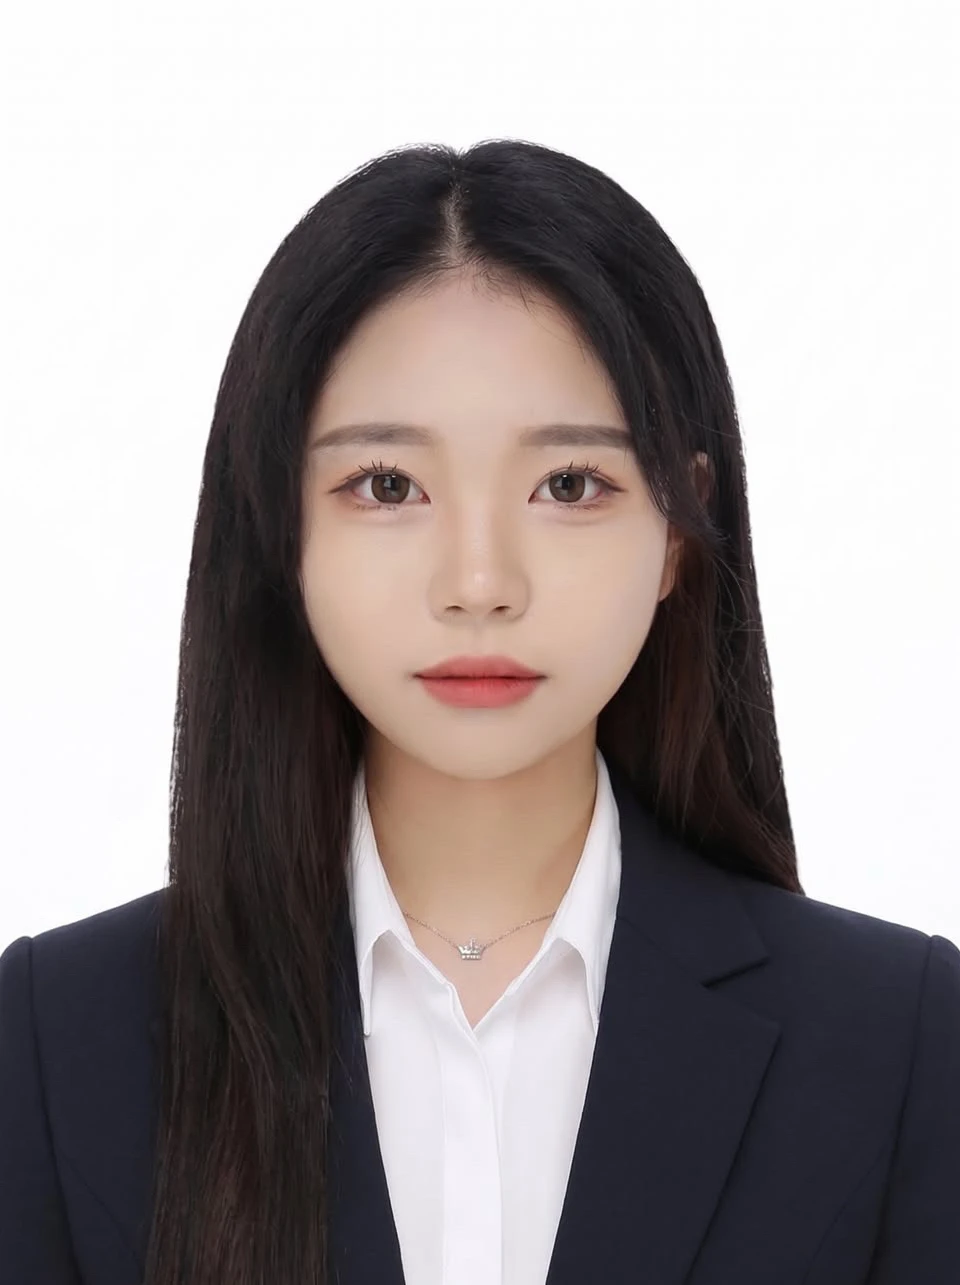
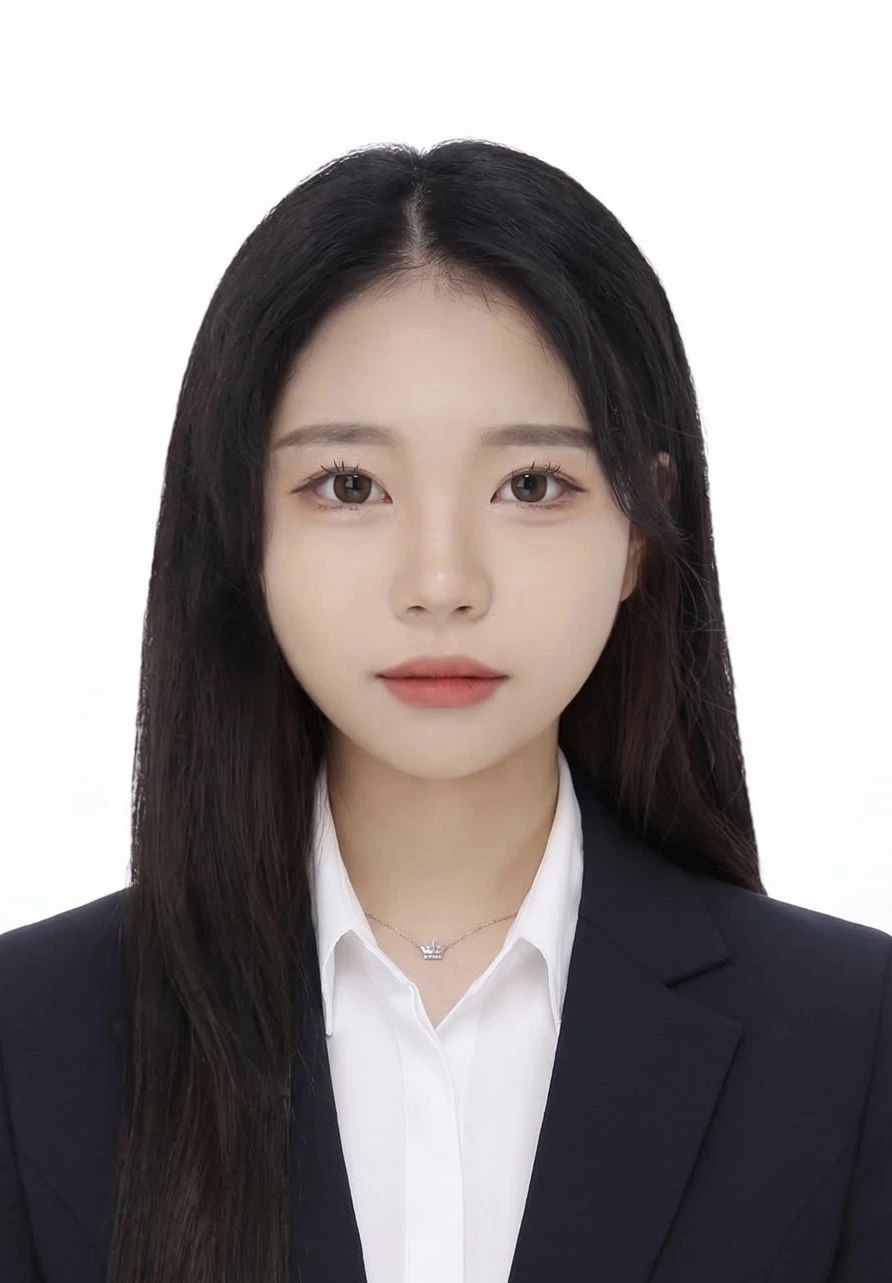
내용 채우기: 이름·연락처·학력·어학·언어, 프로필 사진 교체
- 1페이지: 인사말 '안녕하세요. 기술과 비즈니스를 연결하는 천세령입니다.'
  PORTFOLIO 글자 굵기 300 → 500, 전공은 '컴퓨터공학과'만 표기
- 이메일·GitHub 링크 (1페이지, 마지막 페이지)
- 자기소개: 이름 천세령, 이화여자대학교 컴퓨터공학과 재학,
  TOEFL 80점 (2025.09.28), 어학연수 캐나다 6개월, 자격증은 비워 둠
- 스킬: 언어 SQL, Python, Java, C (설명은 작성 필요)
- 프로필 사진 교체 (892×1283)

Claude-Session: https://claude.ai/code/session_01CPMB5RBGDjcvr2gRGhn2Nj

diff --git a/index.html b/index.html
@@ -3,12 +3,11 @@
 <head>
   <meta charset="UTF-8">
   <meta name="viewport" content="width=device-width, initial-scale=1">
-  <!-- 이름을 채운 뒤 예: "홍길동 | 데이터 운영·분석 포트폴리오" -->
-  <title>데이터 운영·분석 포트폴리오</title>
-  <meta name="description" content="컴퓨터공학과 3학년, 데이터 운영·분석 직무 포트폴리오">
+  <title>천세령 | 데이터 운영·분석 포트폴리오</title>
+  <meta name="description" content="이화여자대학교 컴퓨터공학과 천세령의 데이터 운영·분석 직무 포트폴리오">
   <!-- 카카오톡·슬랙 등에 링크를 붙였을 때 보이는 미리보기 문구 -->
-  <meta property="og:title" content="데이터 운영·분석 포트폴리오">
-  <meta property="og:description" content="컴퓨터공학과 3학년, 데이터 운영·분석 직무 포트폴리오">
+  <meta property="og:title" content="천세령 | 데이터 운영·분석 포트폴리오">
+  <meta property="og:description" content="이화여자대학교 컴퓨터공학과 천세령의 데이터 운영·분석 직무 포트폴리오">
   <!-- 파비콘 요청을 막아 불필요한 404를 없앰 -->
   <link rel="icon" href="data:,">
   <!-- 글꼴: Pretendard (불러오지 못하면 Noto Sans KR) -->
@@ -51,9 +50,8 @@
       <!-- 아래: 베이지 영역의 인사말 -->
       <div class="container cover-bottom">
         <div class="cover-text">
-          <p class="eyebrow">컴퓨터공학과 3학년 · 데이터 운영·분석 직무 지원</p>
-          <!-- 이름 -->
-          <h1 class="cover-title" id="hero-title">안녕하세요. <span class="todo">[작성 필요]</span>입니다.</h1>
+          <p class="eyebrow">컴퓨터공학과 · 데이터 운영·분석 직무 지원</p>
+          <h1 class="cover-title" id="hero-title">안녕하세요. 기술과 비즈니스를 연결하는 천세령입니다.</h1>
           <!-- 한 줄 소개. 예: 데이터를 정제하고, 결과를 숫자로 검증하는 개발자 -->
           <p class="cover-intro"><span class="todo">[작성 필요]</span></p>
           <div class="cta-row">
@@ -83,17 +81,15 @@
         <dl class="info-boxes">
           <div>
             <dt>E-MAIL.</dt>
-            <!-- 예: <a href="mailto:me@example.com">me@example.com</a> -->
-            <dd><span class="todo">[작성 필요]</span></dd>
+            <dd><a href="mailto:seryung011400@gmail.com">seryung011400@gmail.com</a></dd>
           </div>
           <div>
             <dt>GITHUB.</dt>
-            <!-- 예: <a href="https://github.com/아이디">github.com/아이디</a> -->
-            <dd><span class="todo">[작성 필요]</span></dd>
+            <dd><a href="https://github.com/seryung0114">github.com/seryung0114</a></dd>
           </div>
           <div>
             <dt>MAJOR.</dt>
-            <dd>컴퓨터공학과 3학년</dd>
+            <dd>컴퓨터공학과</dd>
           </div>
         </dl>
       </div>
@@ -162,11 +158,11 @@
               <dl class="kv">
                 <div>
                   <dt>NAME</dt>
-                  <dd><span class="todo">[작성 필요]</span></dd>
+                  <dd>천세령</dd>
                 </div>
                 <div>
                   <dt>MAJOR</dt>
-                  <dd>컴퓨터공학과 3학년</dd>
+                  <dd>컴퓨터공학과</dd>
                 </div>
                 <div>
                   <dt>POSITION</dt>
@@ -179,10 +175,9 @@
               <h3 class="block-title">학력</h3>
               <dl class="kv">
                 <div>
-                  <!-- 예: 2024.03 – -->
+                  <!-- 입학 연월. 예: 2024.03 – -->
                   <dt><span class="todo">[작성 필요]</span></dt>
-                  <!-- 학교 이름 -->
-                  <dd><span class="todo">[작성 필요]</span> 컴퓨터공학과 재학</dd>
+                  <dd>이화여자대학교 컴퓨터공학과 재학</dd>
                 </div>
               </dl>
             </div>
@@ -190,10 +185,15 @@
             <div class="info-block">
               <h3 class="block-title">자격증</h3>
               <dl class="kv">
+                <!-- 아직 없음. 취득하면 아래처럼 추가:
                 <div>
-                  <!-- 취득 연월. 예: 2026.06 -->
-                  <dt><span class="todo">[작성 필요]</span></dt>
+                  <dt>2026.06</dt>
                   <dd>SQLD (SQL 개발자)</dd>
+                </div>
+                -->
+                <div>
+                  <dt><span class="todo">[작성 필요]</span></dt>
+                  <dd></dd>
                 </div>
               </dl>
             </div>
@@ -202,15 +202,13 @@
               <h3 class="block-title">어학</h3>
               <dl class="kv">
                 <div>
-                  <dt><span class="todo">[작성 필요]</span></dt>
-                  <!-- 예: OPIc 영어 IH -->
-                  <dd>OPIc <span class="todo">[작성 필요]</span></dd>
+                  <dt>2025.09.28</dt>
+                  <dd>TOEFL 80점</dd>
                 </div>
                 <div>
-                  <!-- 예: 2024.09 – 2025.02 -->
+                  <!-- 연수 기간. 예: 2024.09 – 2025.02 -->
                   <dt><span class="todo">[작성 필요]</span></dt>
-                  <!-- 지역. 예: 캐나다 밴쿠버 -->
-                  <dd>어학연수 6개월 · <span class="todo">[작성 필요]</span></dd>
+                  <dd>어학연수 · 캐나다 6개월</dd>
                 </div>
               </dl>
             </div>
@@ -218,7 +216,7 @@
         </div>
 
         <!-- 프로필 사진 (원본 컬러) -->
-        <img class="intro-photo" src="assets/images/profile.webp" alt="프로필 사진" width="960" height="1285">
+        <img class="intro-photo" src="assets/images/profile.webp" alt="천세령 프로필 사진" width="892" height="1283">
       </div>
     </section>
 
@@ -235,38 +233,42 @@
       </header>
 
       <div class="container section-body">
-        <!-- 행 하나 = 기술 하나. 별점·막대 대신 실제로 해 본 것 -->
+        <h3 class="sub-title sub-title-first">언어</h3>
+        <!-- 행 하나 = 언어 하나. 별점·막대 대신 실제로 해 본 것 -->
         <dl class="skill-table">
           <div>
-            <!-- 예: SQL -->
-            <dt><span class="todo">[작성 필요]</span></dt>
+            <dt>SQL</dt>
             <dd>
-              <!-- 예: JOIN·GROUP BY로 월별 집계 쿼리 작성, 서브쿼리로 중복 주문 탐지 -->
+              <!-- 예: JOIN·GROUP BY로 집계 쿼리 작성, 서브쿼리로 중복 데이터 탐지 -->
               <p><span class="todo">[작성 필요]</span></p>
-              <!-- 예: <a href="projects/project-1.html">프로젝트 1</a> -->
+              <!-- 예: <a href="projects/project-1.html">프로젝트 1</a>, 수업 이름 -->
               <p class="muted-sm">사용한 곳 <span class="todo">[작성 필요]</span></p>
             </dd>
           </div>
           <div>
-            <!-- 예: Python -->
-            <dt><span class="todo">[작성 필요]</span></dt>
+            <dt>Python</dt>
             <dd>
               <!-- 예: pandas로 결측치·중복 정제, matplotlib로 전후 비교 그래프 -->
               <p><span class="todo">[작성 필요]</span></p>
+              <!-- 예: <a href="projects/project-1.html">프로젝트 1</a>, 수업 이름 -->
               <p class="muted-sm">사용한 곳 <span class="todo">[작성 필요]</span></p>
             </dd>
           </div>
           <div>
-            <dt><span class="todo">[작성 필요]</span></dt>
+            <dt>Java</dt>
             <dd>
+              <!-- 예: 객체지향 수업 과제로 ○○ 프로그램 구현 -->
               <p><span class="todo">[작성 필요]</span></p>
+              <!-- 예: <a href="projects/project-1.html">프로젝트 1</a>, 수업 이름 -->
               <p class="muted-sm">사용한 곳 <span class="todo">[작성 필요]</span></p>
             </dd>
           </div>
           <div>
-            <dt><span class="todo">[작성 필요]</span></dt>
+            <dt>C</dt>
             <dd>
+              <!-- 예: 자료구조 수업에서 연결 리스트·정렬 알고리즘 구현 -->
               <p><span class="todo">[작성 필요]</span></p>
+              <!-- 예: <a href="projects/project-1.html">프로젝트 1</a>, 수업 이름 -->
               <p class="muted-sm">사용한 곳 <span class="todo">[작성 필요]</span></p>
             </dd>
           </div>
@@ -393,11 +395,11 @@
         <dl class="info-boxes">
           <div>
             <dt>E-MAIL.</dt>
-            <dd><span class="todo">[작성 필요]</span></dd>
+            <dd><a href="mailto:seryung011400@gmail.com">seryung011400@gmail.com</a></dd>
           </div>
           <div>
             <dt>GITHUB.</dt>
-            <dd><span class="todo">[작성 필요]</span></dd>
+            <dd><a href="https://github.com/seryung0114">github.com/seryung0114</a></dd>
           </div>
           <div>
             <dt>RESUME.</dt>

diff --git a/projects/project-1.html b/projects/project-1.html
@@ -3,8 +3,8 @@
 <head>
   <meta charset="UTF-8">
   <meta name="viewport" content="width=device-width, initial-scale=1">
-  <!-- 제목을 채운 뒤 예: "주문 데이터 정제 자동화 | 데이터 운영·분석 포트폴리오" -->
-  <title>프로젝트 1 | 데이터 운영·분석 포트폴리오</title>
+  <!-- 프로젝트 제목을 채운 뒤 예: "주문 데이터 정제 자동화 | 천세령 포트폴리오" -->
+  <title>프로젝트 1 | 천세령 포트폴리오</title>
   <meta name="description" content="프로젝트 1 상세: 문제 정의, 데이터와 방법, 결과, 해결 과정">
   <link rel="icon" href="data:,">
   <link rel="stylesheet" crossorigin href="https://cdn.jsdelivr.net/gh/orioncactus/pretendard@v1.3.9/dist/web/variable/pretendardvariable-dynamic-subset.min.css">

diff --git a/projects/project-2.html b/projects/project-2.html
@@ -3,8 +3,8 @@
 <head>
   <meta charset="UTF-8">
   <meta name="viewport" content="width=device-width, initial-scale=1">
-  <!-- 제목을 채운 뒤 예: "주문 데이터 정제 자동화 | 데이터 운영·분석 포트폴리오" -->
-  <title>프로젝트 2 | 데이터 운영·분석 포트폴리오</title>
+  <!-- 프로젝트 제목을 채운 뒤 예: "주문 데이터 정제 자동화 | 천세령 포트폴리오" -->
+  <title>프로젝트 2 | 천세령 포트폴리오</title>
   <meta name="description" content="프로젝트 2 상세: 문제 정의, 데이터와 방법, 결과, 해결 과정">
   <link rel="icon" href="data:,">
   <link rel="stylesheet" crossorigin href="https://cdn.jsdelivr.net/gh/orioncactus/pretendard@v1.3.9/dist/web/variable/pretendardvariable-dynamic-subset.min.css">

diff --git a/css/style.css b/css/style.css
@@ -274,10 +274,10 @@ a {
   background: var(--paper);
 }
 
-/* 아주 얇고 큰 영문 글자 */
+/* 큰 영문 글자 (굵기: 300 얇게 ~ 700 굵게) */
 .cover-word {
   font-size: clamp(44px, 14vw, 176px);
-  font-weight: 300;
+  font-weight: 500;
   line-height: 0.95;
   letter-spacing: 0.01em;
 }
@@ -437,6 +437,10 @@ a {
   margin: 56px 0 20px;
   font-size: 20px;
   font-weight: 600;
+}
+
+.sub-title-first {
+  margin-top: 0;
 }
 
 /* 이미지 자리 (베이지 상자) */
